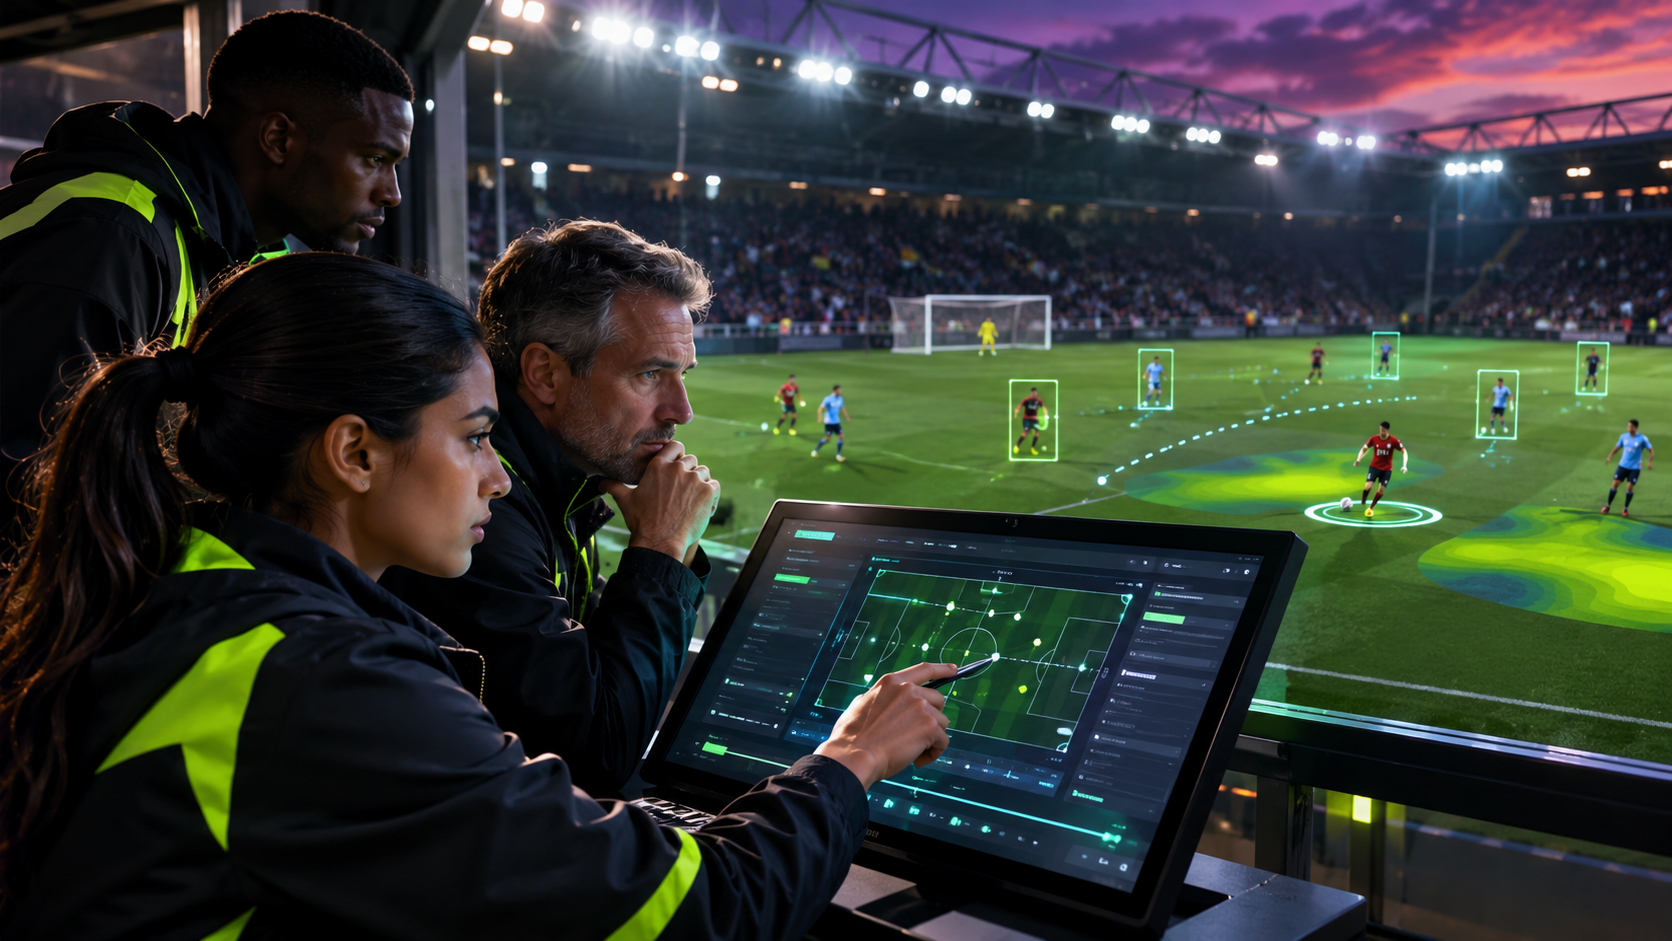
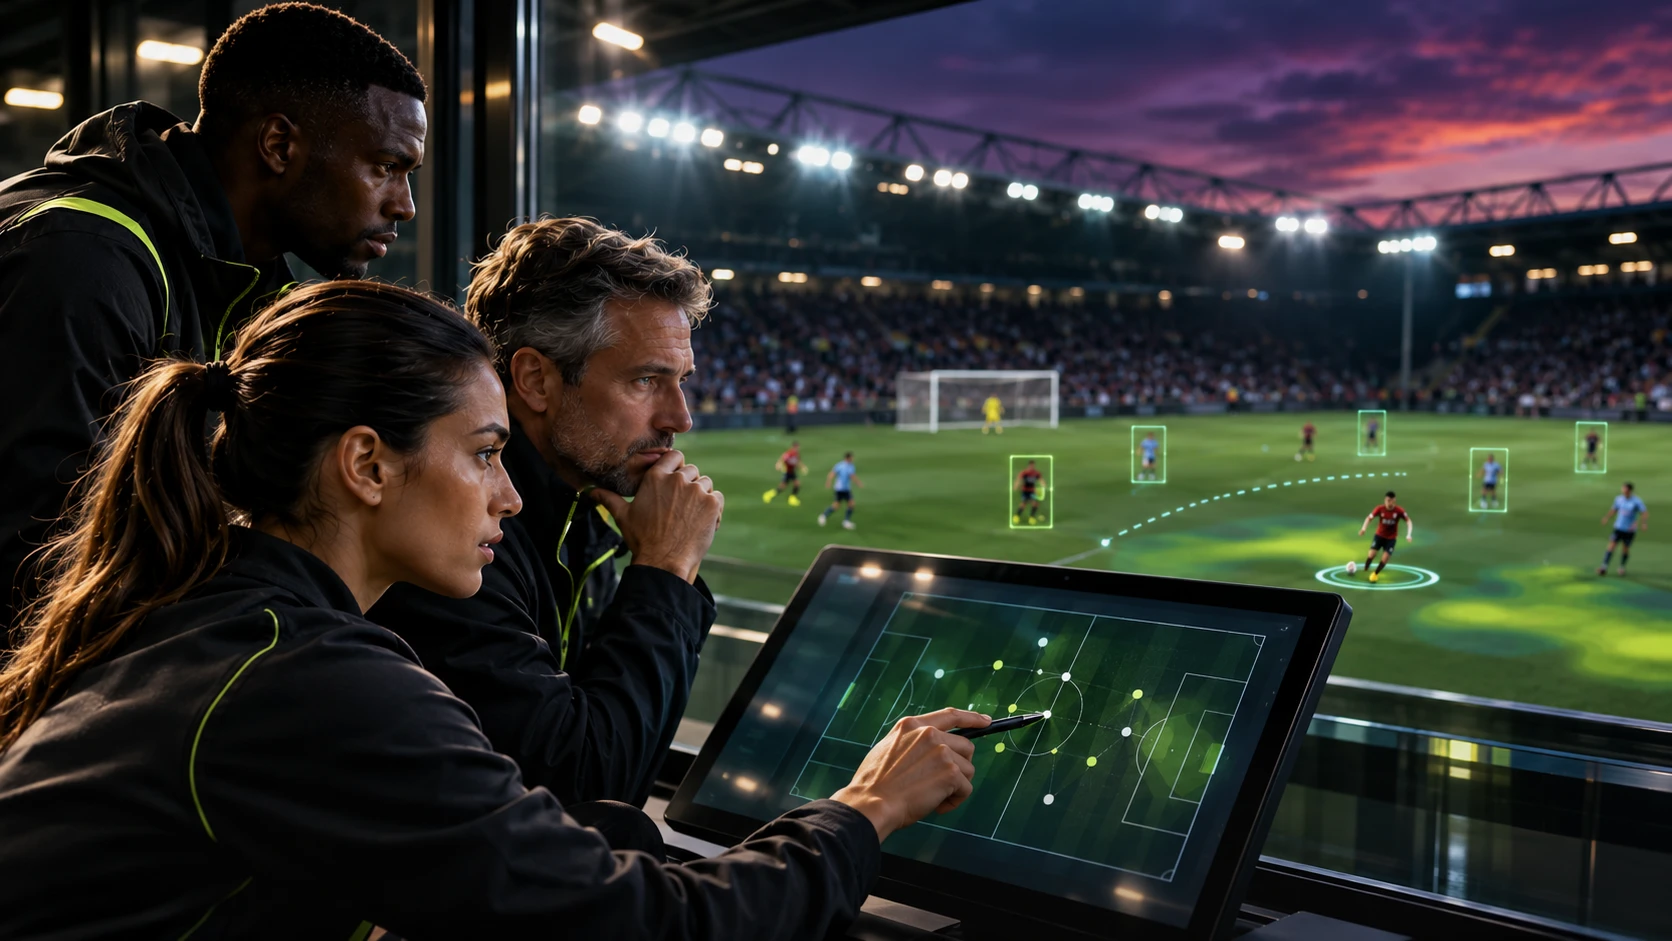
New Talent Identification and Video Analysis photos (owner's new style); whole set re-balanced; purple dusk skies warmed with a touch of sepia, training green cast and fan-engagement lime toned down
Claude-Session: https://claude.ai/code/session_01F1RUf5ZQ5HVhPWDPwEZ9Ew

diff --git a/src/content/pilot-images.ts b/src/content/pilot-images.ts
@@ -32,13 +32,18 @@ export const pilotHero: StaticImageData = hero;
  * `tone` evens out each photograph so the set reads as one family on every device (source files
  * untouched). Values are solved, not eyeballed: after the shared grade every daylight photo lands at
  * the same upper-mid brightness (75th percentile ≈76/255) and colour strength (≈42%), without ever
- * adding more than 5% colour (scratchpad tone/solve.py, Nov 2026). Re-solve when an image changes.
+ * adding more than 5% colour (scratchpad tone/solve.py, Nov 2026). Dusk photos with purple-magenta skies get a
+ * touch of sepia so they read as amber dusk like the newer photos (art-direction audit). Re-solve when an image changes.
  */
 type PanelImage = { src: StaticImageData; position?: string; tone?: string };
 
 /** One image per area: the header for any capability without its own image. */
 const areaImages: Record<string, PanelImage> = {
-  "events-operations": { src: areaEvents, position: "60% 45%", tone: "saturate(0.93) brightness(0.94)" },
+  "events-operations": {
+    src: areaEvents,
+    position: "60% 45%",
+    tone: "saturate(0.85) sepia(0.07) brightness(0.92)",
+  },
   "growth-engagement": { src: areaGrowth, position: "50% 40%", tone: "saturate(0.9) brightness(1)" },
   "athletes-performance": { src: areaAthletes, position: "50% 30%", tone: "saturate(1.05) brightness(0.85)" },
   "management-reporting": { src: areaManagement, position: "50% 40%", tone: "saturate(1) brightness(0.8)" },
@@ -50,19 +55,27 @@ const capabilityImages: Record<string, PanelImage> = {
   "event-planning-coordination": {
     src: eventPlanning,
     position: "50% 30%",
-    tone: "saturate(0.96) brightness(0.88)",
+    tone: "saturate(0.88) sepia(0.07) brightness(0.86)",
   },
-  "venue-facility-management": { src: venue, position: "50% 30%", tone: "saturate(0.92) brightness(0.96)" },
+  "venue-facility-management": {
+    src: venue,
+    position: "50% 30%",
+    tone: "saturate(0.85) sepia(0.07) brightness(0.95)",
+  },
   "registration-administration": {
     src: registration,
     position: "50% 20%",
-    tone: "saturate(1.05) brightness(0.9)",
+    tone: "saturate(0.95) sepia(0.07) brightness(0.88)",
   },
-  "staff-volunteer-management": { src: staff, position: "50% 25%", tone: "saturate(1.05) brightness(0.9)" },
+  "staff-volunteer-management": {
+    src: staff,
+    position: "50% 25%",
+    tone: "saturate(0.95) sepia(0.07) brightness(0.89)",
+  },
   "social-media-campaigns": {
     src: socialMedia,
     position: "50% 35%",
-    tone: "saturate(1.05) brightness(0.8)",
+    tone: "saturate(0.9) sepia(0.08) brightness(0.79)",
   },
   // Final batch 3 (11–15): full-resolution 1672×941.
   "sponsorship-management": {
@@ -73,7 +86,7 @@ const capabilityImages: Record<string, PanelImage> = {
   "fan-engagement-ticketing": {
     src: fanEngagement,
     position: "50% 25%",
-    tone: "saturate(0.76) brightness(0.86)",
+    tone: "saturate(0.7) brightness(0.86)",
   },
   "membership-customer-management": {
     src: membership,
@@ -83,15 +96,18 @@ const capabilityImages: Record<string, PanelImage> = {
   "talent-identification-development": {
     src: talentIdentification,
     position: "50% 25%",
-    // interim: softer contrast for its backlight until the photo is regenerated
-    tone: "contrast(0.93) brightness(0.8)",
+    tone: "saturate(0.91) brightness(1.02)",
   },
   "training-performance-monitoring": {
     src: training,
     position: "50% 25%",
-    tone: "saturate(0.87) brightness(0.9)",
+    tone: "saturate(0.8) sepia(0.06) brightness(0.88)",
   },
-  "video-analysis-scouting": { src: video, position: "50% 30%", tone: "saturate(0.93) brightness(1)" },
+  "video-analysis-scouting": {
+    src: video,
+    position: "50% 30%",
+    tone: "saturate(0.88) sepia(0.08) brightness(1.12)",
+  },
   // Final batch 4 (16–21): full-resolution 1672×941.
   "athlete-career-welfare": {
     src: careerWelfare,
@@ -102,7 +118,7 @@ const capabilityImages: Record<string, PanelImage> = {
   "sports-programme-management": {
     src: programmes,
     position: "50% 35%",
-    tone: "saturate(0.73) brightness(0.87)",
+    tone: "saturate(0.7) sepia(0.06) brightness(0.86)",
   },
   "funding-impact-reporting": {
     src: funding,
@@ -125,5 +141,5 @@ export function panelImage(capId: string, zoneId: string): PanelImage | undefine
 export const processImage: PanelImage = {
   src: eventPlanning,
   position: "45% 30%",
-  tone: "saturate(0.96) brightness(0.88)", // same as its capability panel
+  tone: "saturate(0.88) sepia(0.07) brightness(0.86)", // same as its capability panel
 };
